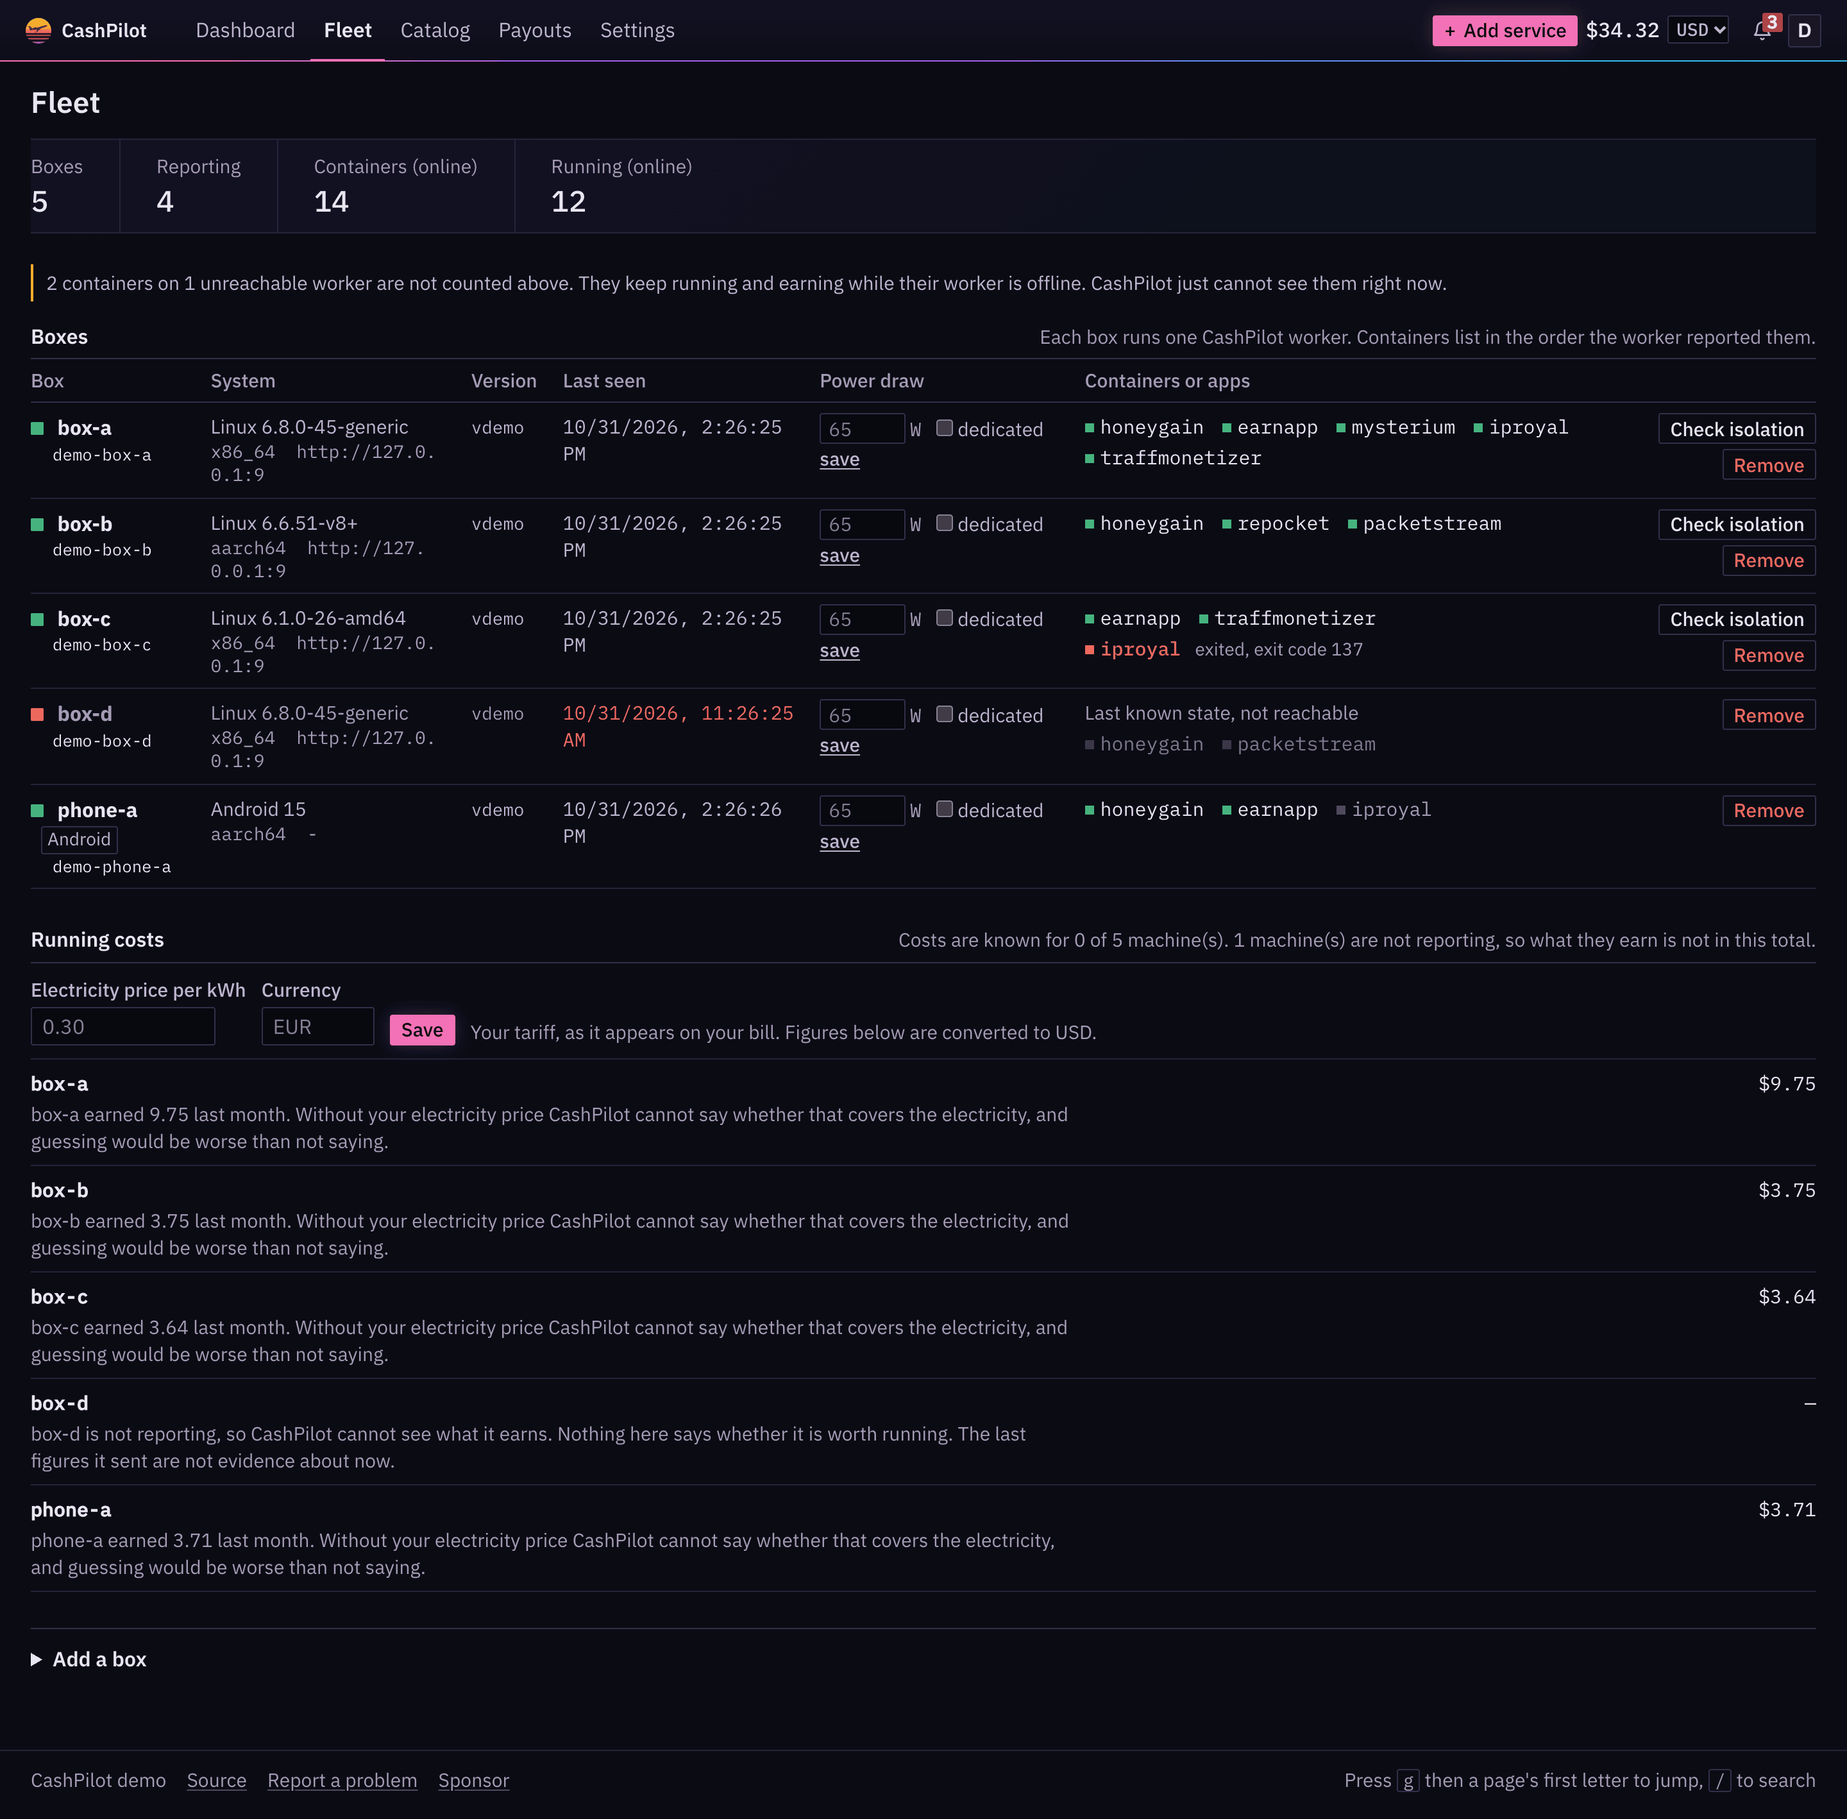
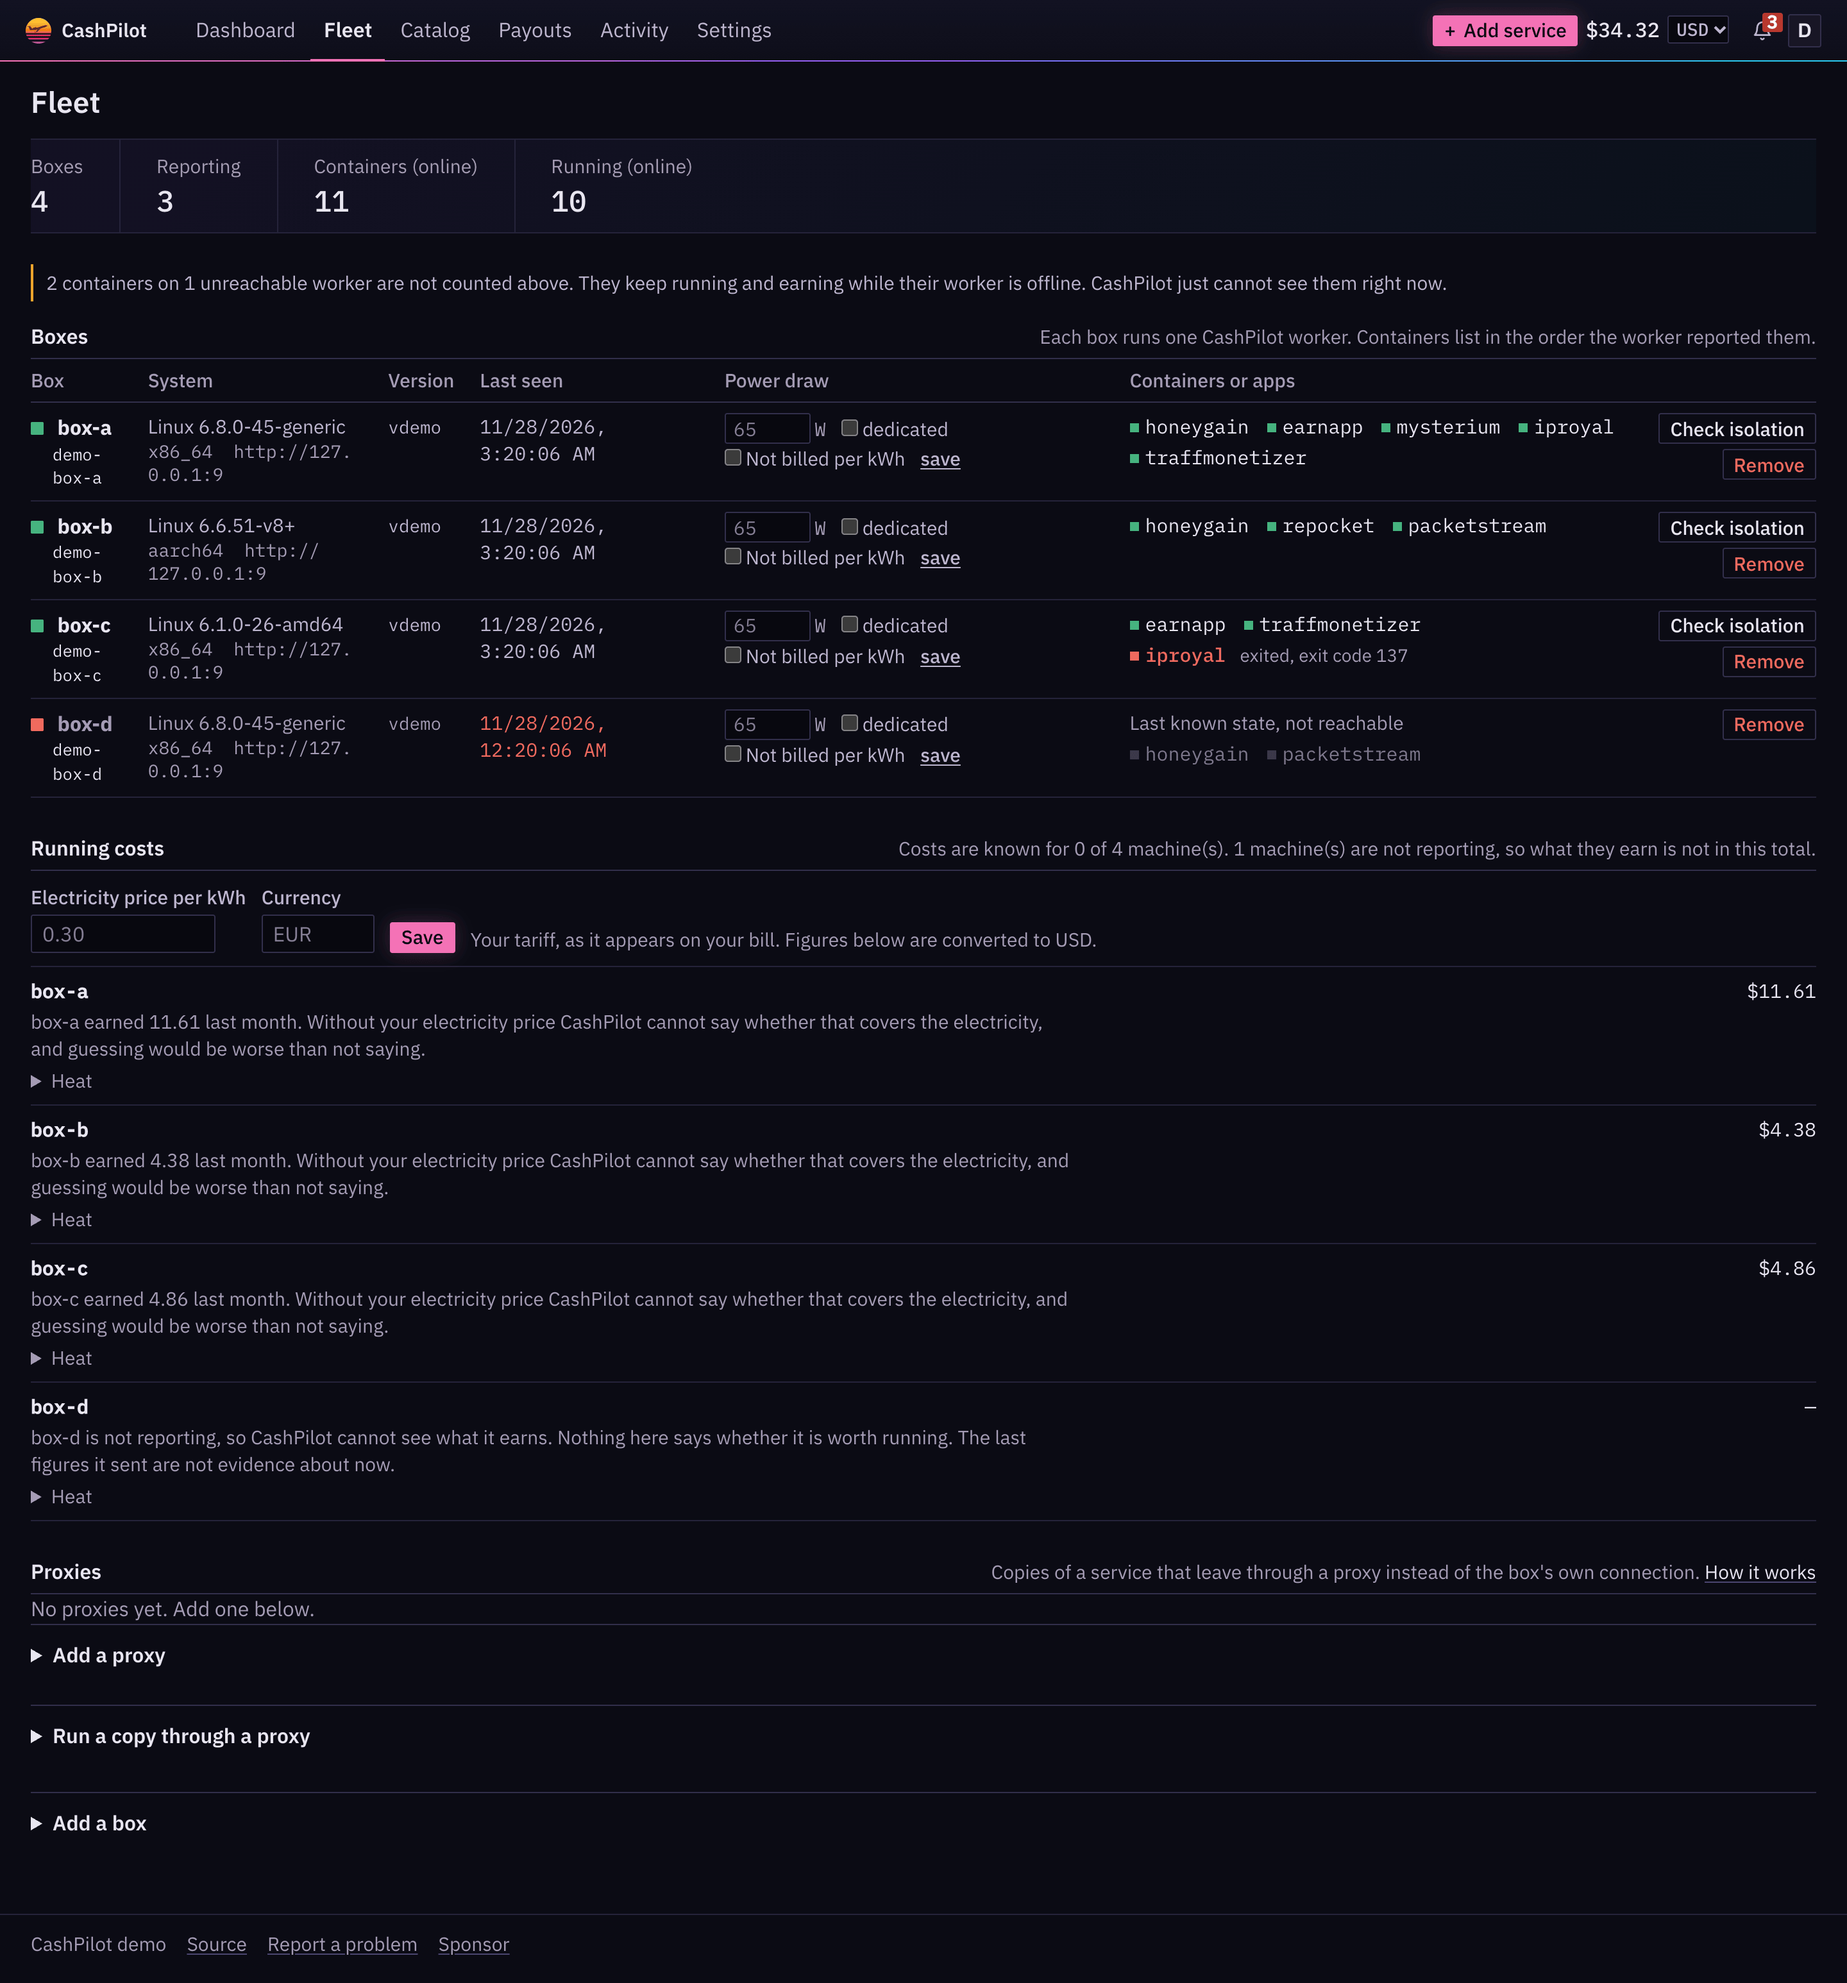
docs: retake the fleet screenshot, which still showed October's date
The fleet picture on the docs home page and on cashpilot.club dated every
box 10/31/2026. It is taken again from the demo instance
(scripts/ui_demo_seed.py), so it shows invented boxes, local addresses
only and today's page, with the Activity tab, the Heat details and the
Proxies block. The demo seed has no phone, so the alt text no longer
mentions one.

diff --git a/docs/index.md b/docs/index.md
@@ -87,7 +87,7 @@ The dashboard is what you look at every day: the balances, a 7-day or 30-day ear
 <figcaption>The wizard: pick categories, pick services, enter credentials, deploy</figcaption>
 </figure>
 <figure markdown>
-![The fleet page: four Linux boxes and an Android phone with their system, last report, power draw and containers or apps, one box offline, the running cost of each machine, and the block to add another box](images/screenshots/fleet.png)
+![The fleet page: four Linux boxes with their system, last report, power draw and containers, one box offline, the running cost of each machine, and the blocks to add a proxy or another box](images/screenshots/fleet.png)
 <figcaption>The fleet: every worker, its host, and how to add the next one</figcaption>
 </figure>
 <figure markdown>
